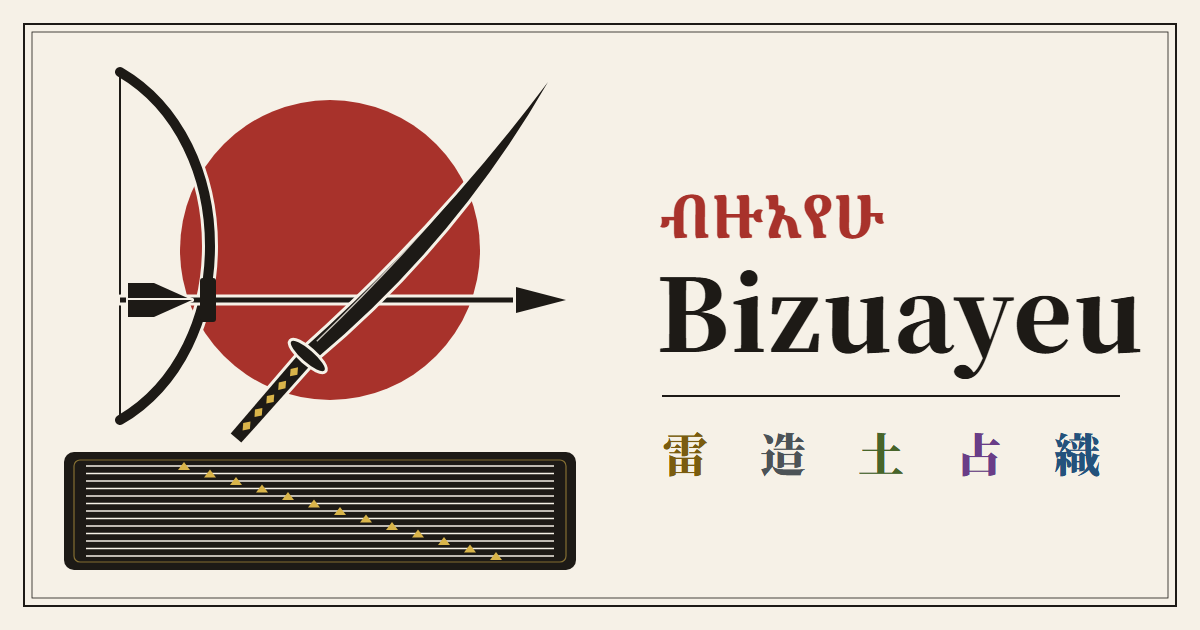
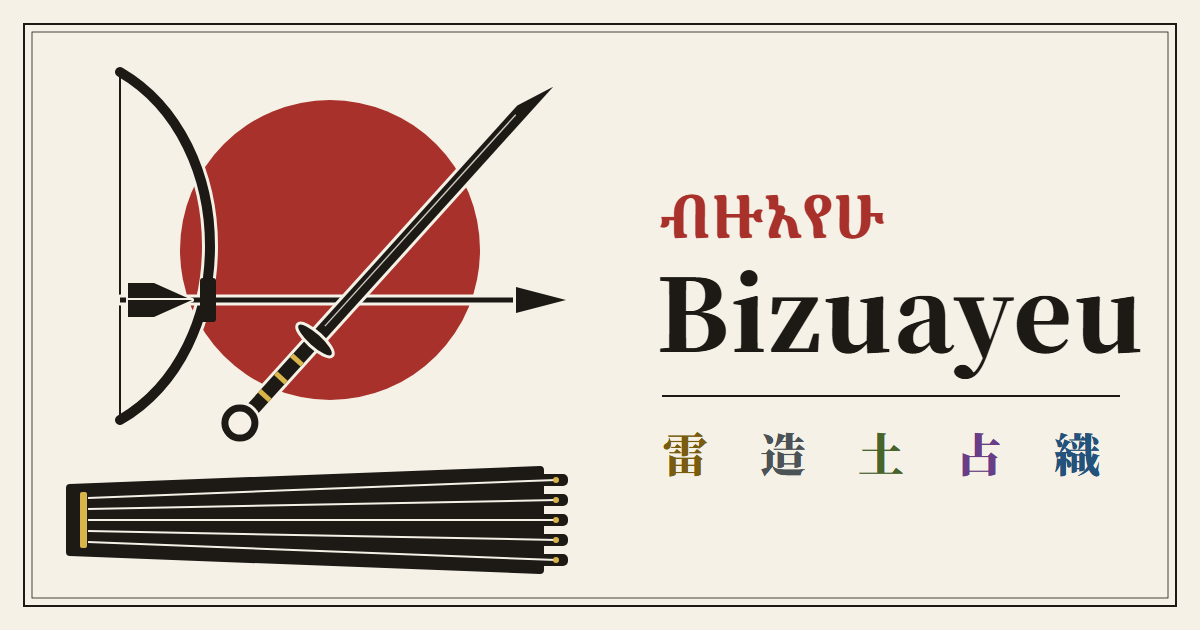
Draw the sword and koto in their Kofun-period forms, and name the card's text
The sword is now a straight, single-edged blade with a ring pommel,
not a curved later tachi. The koto is the older plank with five strings
fixed to five tail projections, not the thirteen-string zither with a
diagonal row of bridges. The alt text now also reads out the words in
the image: ብዙአየሁ, Bizuayeu and the five domain kanji.

Changed region(s): [[0.0308, 0.181, 0.4933, 0.9349], [0.4317, 0.1508, 0.4625, 0.181]]

diff --git a/design/og.html b/design/og.html
@@ -75,16 +75,25 @@
       // 日輪
       el('circle', { cx: 330, cy: 250, r: 150, fill: SHU });
 
-      // 天詔琴：上から見た琴。十三弦と、斜めに並ぶ柱
-      const koto = { x: 64, y: 452, w: 512, h: 118 };
-      el('rect', { x: koto.x, y: koto.y, width: koto.w, height: koto.h, rx: 10, fill: SUMI });
-      el('rect', { x: koto.x + 10, y: koto.y + 8, width: koto.w - 20, height: koto.h - 16, rx: 6, fill: 'none', stroke: GOLD, 'stroke-width': 1.2, opacity: 0.55 });
-      for (let i = 0; i < 13; i++) {
-        const y = koto.y + 14 + i * ((koto.h - 28) / 12);
-        el('line', { x1: koto.x + 22, y1: f(y), x2: koto.x + koto.w - 22, y2: f(y), stroke: KINARI, 'stroke-width': 1.6 });
-        const bx = koto.x + 120 + i * 26;
-        el('path', { d: `M${f(bx - 6)},${f(y + 4)} L${f(bx)},${f(y - 4)} L${f(bx + 6)},${f(y + 4)} Z`, fill: GOLD });
+      // 天詔琴：上から見た古墳時代の琴。頭は細く、尾へ広がる板に五弦。
+      // 弦は琴尾の五つの突起に留める（十三弦・柱の箏より前の形）
+      const koto = { head: 70, tail: 540, cy: 520, hh: 32, th: 50 };
+      el('path', {
+        d: `M${koto.head},${koto.cy - koto.hh} L${koto.tail},${koto.cy - koto.th} L${koto.tail},${koto.cy + koto.th} L${koto.head},${koto.cy + koto.hh} Z`,
+        fill: SUMI,
+        stroke: SUMI,
+        'stroke-width': 8,
+        'stroke-linejoin': 'round',
+      });
+      for (let i = 0; i < 5; i++) {
+        const yh = koto.cy + (i - 2) * 11; // 頭では寄り
+        const yt = koto.cy + (i - 2) * 20; // 尾では突起ごとに開く
+        el('rect', { x: koto.tail - 2, y: f(yt - 6), width: 30, height: 12, rx: 5, fill: SUMI });
+        el('line', { x1: koto.head + 18, y1: f(yh), x2: koto.tail + 16, y2: f(yt), stroke: KINARI, 'stroke-width': 2 });
+        el('circle', { cx: koto.tail + 16, cy: f(yt), r: 3, fill: GOLD });
       }
+      // 頭の弦を束ねる帯
+      el('rect', { x: koto.head + 10, y: koto.cy - 28, width: 7, height: 56, rx: 2, fill: GOLD });
 
       // 生弓矢：立てた弓。弦は左、弓は右へ張る。握りは下寄り（和弓の形）
       const bow = { x: 120, top: 72, bottom: 420 };
@@ -109,36 +118,32 @@
       // 握り（弓と矢の交わり）
       el('rect', { x: 200, y: ay - 22, width: 16, height: 44, rx: 3, fill: SUMI });
 
-      // 生大刀：柄を左下、切先を右上へ。反りは峰側へふくらむ
-      const H = { x: 236, y: 438 }; // 柄頭
+      // 生大刀：古墳時代の直刀（反りなし・片刃）に環頭。柄を左下、切先を右上へ
+      const H = { x: 250, y: 412 }; // 柄の端
       const T = { x: 548, y: 82 }; // 切先
       const L = Math.hypot(T.x - H.x, T.y - H.y);
       const u = { x: (T.x - H.x) / L, y: (T.y - H.y) / L };
       const n = { x: -u.y, y: u.x }; // 峰の側（左上）
       const at = (d, o = 0) => ({ x: H.x + u.x * d + n.x * o, y: H.y + u.y * d + n.y * o });
-      const B = 112; // 鍔の位置（柄頭からの距離）
-      const sori = 26;
-      const mid = (B + L) / 2;
+      const B = 100; // 鍔の位置（柄の端からの距離）
       const pt = (p) => `${f(p.x)},${f(p.y)}`;
-      const blade = [
-        `M${pt(at(B, 8))}`,
-        `Q${pt(at(mid, sori + 10))} ${pt(at(L, 0))}`,
-        `Q${pt(at(mid, sori - 12))} ${pt(at(B, -8))}`,
-        'Z',
-      ].join(' ');
+      // 峰はまっすぐ切先へ、刃は切先の手前で斜めに上がる
+      const blade = `M${pt(at(B, 7))} L${pt(at(L, 7))} L${pt(at(L - 38, -7))} L${pt(at(B, -7))} Z`;
       halo('path', { d: blade, fill: SUMI });
       el('path', { d: blade, fill: SUMI });
-      // 刃文の線
-      el('path', { d: `M${pt(at(B + 14, -3))} Q${pt(at(mid, sori - 15))} ${pt(at(L - 30, -1))}`, fill: 'none', stroke: KINARI, 'stroke-width': 1.4, opacity: 0.8 });
+      el('line', { x1: f(at(B + 14, -2).x), y1: f(at(B + 14, -2).y), x2: f(at(L - 46, -2).x), y2: f(at(L - 46, -2).y), stroke: KINARI, 'stroke-width': 1.4, opacity: 0.8 });
       // 柄
-      const hilt = `M${pt(at(0, 7))} L${pt(at(B - 6, 8))} L${pt(at(B - 6, -8))} L${pt(at(0, -7))} Z`;
+      const hilt = `M${pt(at(0, 7))} L${pt(at(B - 6, 7))} L${pt(at(B - 6, -7))} L${pt(at(0, -7))} Z`;
       halo('path', { d: hilt, fill: SUMI });
       el('path', { d: hilt, fill: SUMI });
-      for (let i = 0; i < 5; i++) {
-        const c = at(16 + i * 18);
-        const d = `M${pt({ x: c.x + u.x * 6, y: c.y + u.y * 6 })} L${pt({ x: c.x + n.x * 4.5, y: c.y + n.y * 4.5 })} L${pt({ x: c.x - u.x * 6, y: c.y - u.y * 6 })} L${pt({ x: c.x - n.x * 4.5, y: c.y - n.y * 4.5 })} Z`;
-        el('path', { d, fill: GOLD });
+      for (const d of [22, 46, 70]) {
+        const a = at(d - 2.5, 7), b = at(d + 2.5, 7), c = at(d + 2.5, -7), e = at(d - 2.5, -7);
+        el('path', { d: `M${pt(a)} L${pt(b)} L${pt(c)} L${pt(e)} Z`, fill: GOLD });
       }
+      // 環頭
+      const ring = at(-15);
+      halo('circle', { cx: f(ring.x), cy: f(ring.y), r: 15, fill: 'none', 'stroke-width': 7 });
+      el('circle', { cx: f(ring.x), cy: f(ring.y), r: 15, fill: 'none', stroke: SUMI, 'stroke-width': 7 });
       // 鍔
       const tb = at(B - 3);
       const ang = (Math.atan2(u.y, u.x) * 180) / Math.PI;

diff --git a/src/data/site.ts b/src/data/site.ts
@@ -55,8 +55,8 @@ export const ui = {
     en: 'Portfolio of Bizuayeu. Five domains: thunder, building, earth, divination and weaving — information services, construction, agriculture, advisory and symbiotic AI.',
   },
   ogAlt: {
-    ja: '朱の日輪に、生大刀・生弓矢・天詔琴を幾何の線で描いた Bizuayeu の印。',
-    en: 'The Bizuayeu emblem: a sword, a bow and arrow, and a koto drawn in geometric lines over a red sun.',
+    ja: '朱の日輪に、生大刀・生弓矢・天詔琴を幾何の線で描いた Bizuayeu の印。文字は ብዙአየሁ、Bizuayeu、雷・造・土・占・織。',
+    en: 'The Bizuayeu emblem: a straight sword, a bow and arrow, and an ancient koto drawn in geometric lines over a red sun. Text: ብዙአየሁ, Bizuayeu, and 雷 造 土 占 織 (thunder, building, earth, divination, weaving).',
   },
   switchTo: { ja: 'English', en: '日本語' },
   switchLabel: { ja: 'Read in English', en: '日本語で読む' },
